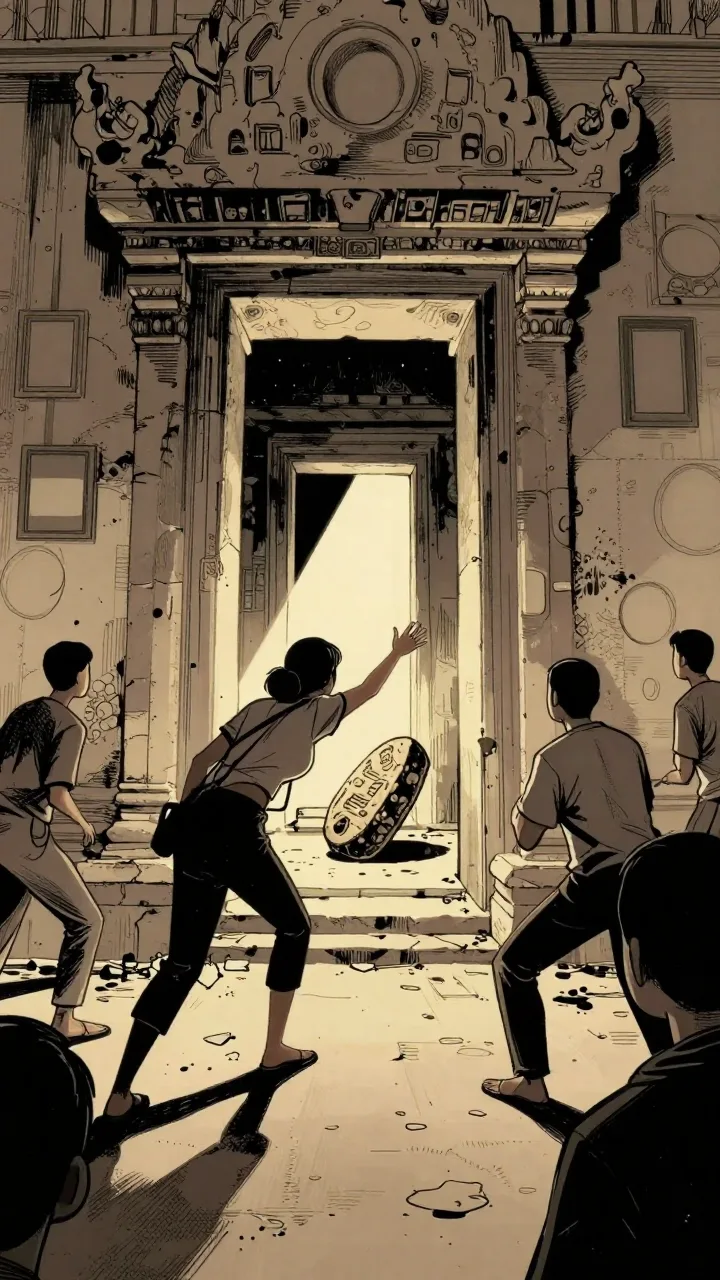
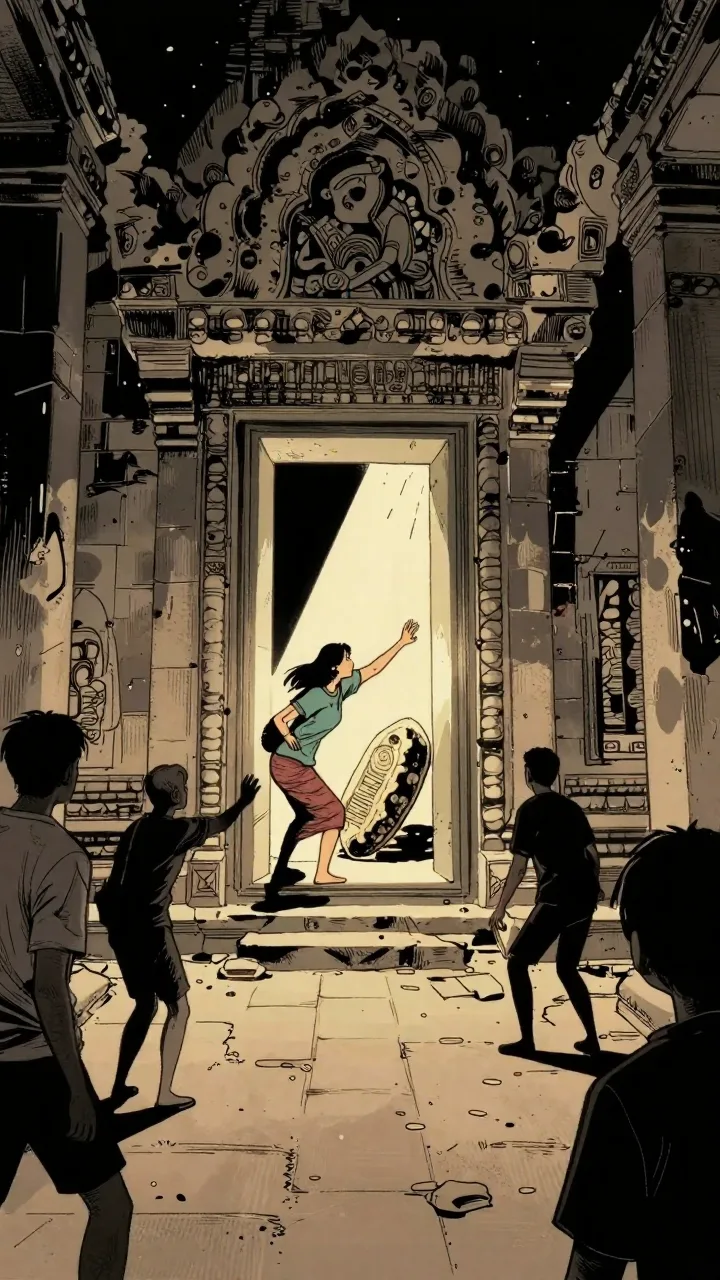
fix(brand): re-render the Visual Format sample cards on the v3 compiler
The five cards on /brands are static assets rendered by the `-v2` compiler on
2026-08-09, so they kept showing the bug ADR 0006 fixed after the fix went
live. `clear-infographic-v2` forced "geometric grouping made from circles,
arrows and recognizable pictograms", which is why that card carried floating
discs — the exact artifact reported. Nothing regenerates these on deploy, so
generated images were correct while the pictures used to sell each look were
not.

Re-render all five from the same benchmark scene at the same seed through
whatever compiler is current, with no brand payload, so the only variable a
creator compares is the format itself (ADR 0006). Add the generator as a script
rather than leaving it ad hoc: dry-run by default, `--generate` renders to
artifacts/, `--install` is a separate flag so shipped assets are never replaced
by images nobody looked at. Its self-check fails the batch before spending if a
prompt regains a forced graphic motif, a color code or non-Latin lettering.

Claude-Session: https://claude.ai/code/session_016vnLp4YYg7CsTFr5gTuLqM

diff --git a/scripts/build-visual-format-samples.ts b/scripts/build-visual-format-samples.ts
@@ -1,0 +1,237 @@
+/**
+ * Regenerate the five Visual Format sample cards shown on `/brands`.
+ *
+ * `public/brand-visual-formats/<formatId>.webp` is what the format picker
+ * renders — it is how a creator decides which look their brand gets. The set
+ * shipped on 2026-08-09 was rendered by the `-v2` compiler, so it kept showing
+ * the bug ADR 0006 fixed after the fix was live: `clear-infographic-v2` forced
+ * "geometric grouping made from circles, arrows and recognizable pictograms",
+ * which is why that card carried floating discs. The images are static assets,
+ * so nothing regenerated them on deploy.
+ *
+ * This renders the same benchmark scene at the same seed through whatever
+ * compiler is current, so a rerun is always a like-for-like replacement and the
+ * five cards stay comparable to each other — the only variable a creator is
+ * choosing between is the format.
+ *
+ * DEFAULT MODE IS DRY-RUN. `--generate` calls RunPod and writes PNGs to
+ * `artifacts/visual-format-samples-<date>/`; `--install` also converts them to
+ * webp over `public/brand-visual-formats/`. Install is a separate flag so the
+ * shipped assets are never replaced by images nobody looked at first.
+ */
+
+import { execFileSync } from "node:child_process";
+import fs from "node:fs";
+import path from "node:path";
+import dotenv from "dotenv";
+import {
+  BRAND_VISUAL_BENCHMARK_SCENES,
+  VISUAL_FORMATS,
+  compileBrandVisualPrompt,
+  type CompiledBrandVisualPrompt,
+  type VisualFormatId,
+} from "../src/lib/brand-visual-system";
+import {
+  firstRunpodImage,
+  publicZImageProviderInput,
+  type RunpodJobResponse,
+} from "../src/lib/runpod-image-contract";
+
+dotenv.config({ path: ".env", override: false, quiet: true });
+
+const args = process.argv.slice(2);
+const GENERATE = args.includes("--generate") || args.includes("--install");
+const INSTALL = args.includes("--install");
+
+const OUTPUT_ROOT = path.resolve("artifacts/visual-format-samples-2026-08-10");
+const PUBLIC_ROOT = path.resolve("public/brand-visual-formats");
+
+/** The card is a 9:16 crop at the size the picker requests, matching the
+ * shipped assets exactly so the swap changes content and nothing else. */
+const WIDTH = 720;
+const HEIGHT = 1280;
+
+/** The `hook` scene — a figure, architecture and one directed light source.
+ * It separates the five formats better than a flat or crowded scene would, and
+ * it is the scene the shipped cards already use, so old and new are directly
+ * comparable. */
+const SCENE = BRAND_VISUAL_BENCHMARK_SCENES.find((item) => item.id === "hook");
+if (!SCENE) throw new Error("benchmark scene 'hook' is gone — pick a replacement deliberately");
+
+type SampleCase = {
+  formatId: VisualFormatId;
+  label: string;
+  compiled: CompiledBrandVisualPrompt;
+};
+
+/** No brand payload: a format card must show the format, not one brand's grade
+ * (ADR 0006). Every card therefore compiles with `brandVisualLanguage` absent. */
+const CASES: SampleCase[] = VISUAL_FORMATS.map((format) => ({
+  formatId: format.id,
+  label: format.label,
+  compiled: compileBrandVisualPrompt({
+    visualFormatId: format.id,
+    contentDomain: SCENE.contentDomain,
+    treatment: SCENE.treatment,
+    visualBeat: SCENE.visualBeat,
+  }),
+}));
+
+const THAI_CHARACTER = /[฀-๿]/;
+
+function selfCheck(): boolean {
+  let pass = true;
+  for (const item of CASES) {
+    const positive = item.compiled.positive;
+    const check = (ok: boolean, message: string) => {
+      console.log(`${ok ? "PASS" : "FAIL"} ${item.formatId}: ${message}`);
+      if (!ok) pass = false;
+    };
+    check(item.compiled.recipeVersion === `${item.formatId}-v3`, `compiles on ${item.formatId}-v3`);
+    check(!THAI_CHARACTER.test(positive), "no Thai character in the prompt");
+    check(!positive.includes("#"), "no color code");
+    check(
+      !/circles, arrows and recognizable pictograms|circular motif|unmarked disc|unmarked ring/i.test(positive),
+      "no forced graphic motif — this is the clause that put discs on the infographic card",
+    );
+    check(/reaches toward a narrow opening/.test(positive), "the scene's own action survives the recipe");
+  }
+  return pass;
+}
+
+const RUNPOD_ENDPOINT_ID = process.env.RUNPOD_IMAGE_Z_IMAGE_ENDPOINT_ID?.trim() || "z-image-turbo";
+
+async function runpod(apiKey: string, operation: string, init?: RequestInit): Promise<RunpodJobResponse> {
+  let lastError: Error | null = null;
+  for (let attempt = 1; attempt <= 4; attempt += 1) {
+    try {
+      const response = await fetch(`https://api.runpod.ai/v2/${encodeURIComponent(RUNPOD_ENDPOINT_ID)}/${operation}`, {
+        ...init,
+        headers: { Authorization: `Bearer ${apiKey}`, "Content-Type": "application/json", ...(init?.headers ?? {}) },
+        cache: "no-store",
+        signal: AbortSignal.timeout(30_000),
+      });
+      const text = await response.text();
+      let payload: RunpodJobResponse;
+      try {
+        payload = JSON.parse(text) as RunpodJobResponse;
+      } catch {
+        throw new Error(`RunPod returned non-JSON status ${response.status}`);
+      }
+      if (response.ok) return payload;
+      const error = new Error(payload.error || `RunPod request failed (${response.status})`);
+      if (response.status < 500 && response.status !== 429) throw error;
+      lastError = error;
+    } catch (error) {
+      lastError = error instanceof Error ? error : new Error("RunPod request failed");
+    }
+    await new Promise((resolve) => setTimeout(resolve, 500 * 2 ** (attempt - 1)));
+  }
+  throw lastError ?? new Error("RunPod request failed");
+}
+
+async function downloadImage(url: string): Promise<Buffer> {
+  const parsed = new URL(url);
+  if (parsed.protocol !== "https:" || parsed.hostname !== "image.runpod.ai") {
+    throw new Error(`Unexpected RunPod output host: ${parsed.hostname}`);
+  }
+  const response = await fetch(parsed, { redirect: "manual", cache: "no-store", signal: AbortSignal.timeout(30_000) });
+  if (!response.ok) throw new Error(`RunPod image download failed (${response.status})`);
+  const bytes = Buffer.from(await response.arrayBuffer());
+  if (!bytes.length || bytes.length > 25 * 1024 * 1024) throw new Error("RunPod image size is invalid");
+  return bytes;
+}
+
+async function generateOne(apiKey: string, item: SampleCase): Promise<string> {
+  const outputPath = path.join(OUTPUT_ROOT, `${item.formatId}.png`);
+  if (fs.existsSync(outputPath)) {
+    console.log(`SKIP ${item.formatId} (already on disk)`);
+    return outputPath;
+  }
+  const submitted = await runpod(apiKey, "run", {
+    method: "POST",
+    body: JSON.stringify({
+      input: publicZImageProviderInput({
+        prompt: item.compiled.positive,
+        width: WIDTH,
+        height: HEIGHT,
+        seed: SCENE.seed,
+      }),
+    }),
+  });
+  const jobId = submitted.id;
+  if (!jobId) throw new Error(`${item.formatId}: RunPod accepted the job without an id`);
+  console.log(`SUBMIT ${item.formatId} ${jobId}`);
+
+  const deadline = Date.now() + 8 * 60_000;
+  let snapshot = submitted;
+  while (snapshot.status !== "COMPLETED") {
+    if (["FAILED", "TIMED_OUT", "CANCELLED"].includes(snapshot.status ?? "")) {
+      throw new Error(`${item.formatId}: RunPod job ${snapshot.status} — ${snapshot.error ?? "no detail"}`);
+    }
+    if (Date.now() >= deadline) throw new Error(`${item.formatId}: RunPod job exceeded 8 minutes`);
+    await new Promise((resolve) => setTimeout(resolve, 2_000));
+    snapshot = await runpod(apiKey, `status/${encodeURIComponent(jobId)}`);
+  }
+
+  const image = firstRunpodImage(snapshot);
+  if (image.type !== "temporary_url" && image.type !== "s3_url") {
+    throw new Error(`${item.formatId}: unsupported RunPod output type ${image.type}`);
+  }
+  fs.mkdirSync(OUTPUT_ROOT, { recursive: true });
+  fs.writeFileSync(outputPath, await downloadImage(image.data));
+  console.log(`DONE ${item.formatId}`);
+  return outputPath;
+}
+
+/** cwebp keeps the assets in the same format and rough weight as the shipped
+ * set. Quality 82 lands each card near the originals without visible banding on
+ * the flat formats, which compress worst. */
+function installWebp(pngPath: string, formatId: VisualFormatId): void {
+  const target = path.join(PUBLIC_ROOT, `${formatId}.webp`);
+  execFileSync("cwebp", ["-quiet", "-q", "82", "-resize", String(WIDTH), String(HEIGHT), pngPath, "-o", target]);
+  const bytes = fs.statSync(target).size;
+  console.log(`INSTALL ${formatId}.webp (${Math.round(bytes / 1024)} KB)`);
+}
+
+async function main() {
+  console.log(`Scene: ${SCENE.id} · seed ${SCENE.seed} · no brand payload`);
+  console.log("");
+  const ok = selfCheck();
+  console.log("");
+  console.log(ok ? "SELF-CHECK: PASS" : "SELF-CHECK: FAIL");
+  if (!ok) {
+    process.exitCode = 1;
+    return;
+  }
+
+  if (!GENERATE) {
+    for (const item of CASES) {
+      console.log(`\n--- ${item.formatId} (${item.compiled.recipeVersion}) ---`);
+      console.log(item.compiled.positive);
+    }
+    console.log("\nDry-run complete. No network calls. Add --generate to render, --install to also ship them.");
+    return;
+  }
+
+  const apiKey = process.env.RUNPOD_API_KEY?.trim();
+  if (!apiKey) throw new Error("RUNPOD_API_KEY is missing from .env — refusing to half-run the batch.");
+
+  const rendered: Array<{ item: SampleCase; pngPath: string }> = [];
+  for (const item of CASES) {
+    rendered.push({ item, pngPath: await generateOne(apiKey, item) });
+  }
+
+  if (!INSTALL) {
+    console.log(`\nRendered ${rendered.length}/${CASES.length} to ${OUTPUT_ROOT}. Re-run with --install to ship them.`);
+    return;
+  }
+  fs.mkdirSync(PUBLIC_ROOT, { recursive: true });
+  for (const entry of rendered) installWebp(entry.pngPath, entry.item.formatId);
+  console.log(`\nInstalled ${rendered.length} cards into ${PUBLIC_ROOT}.`);
+}
+
+main().catch((error) => {
+  console.error(error instanceof Error ? error.message : "build-visual-format-samples failed");
+  process.exit(1);
+});
